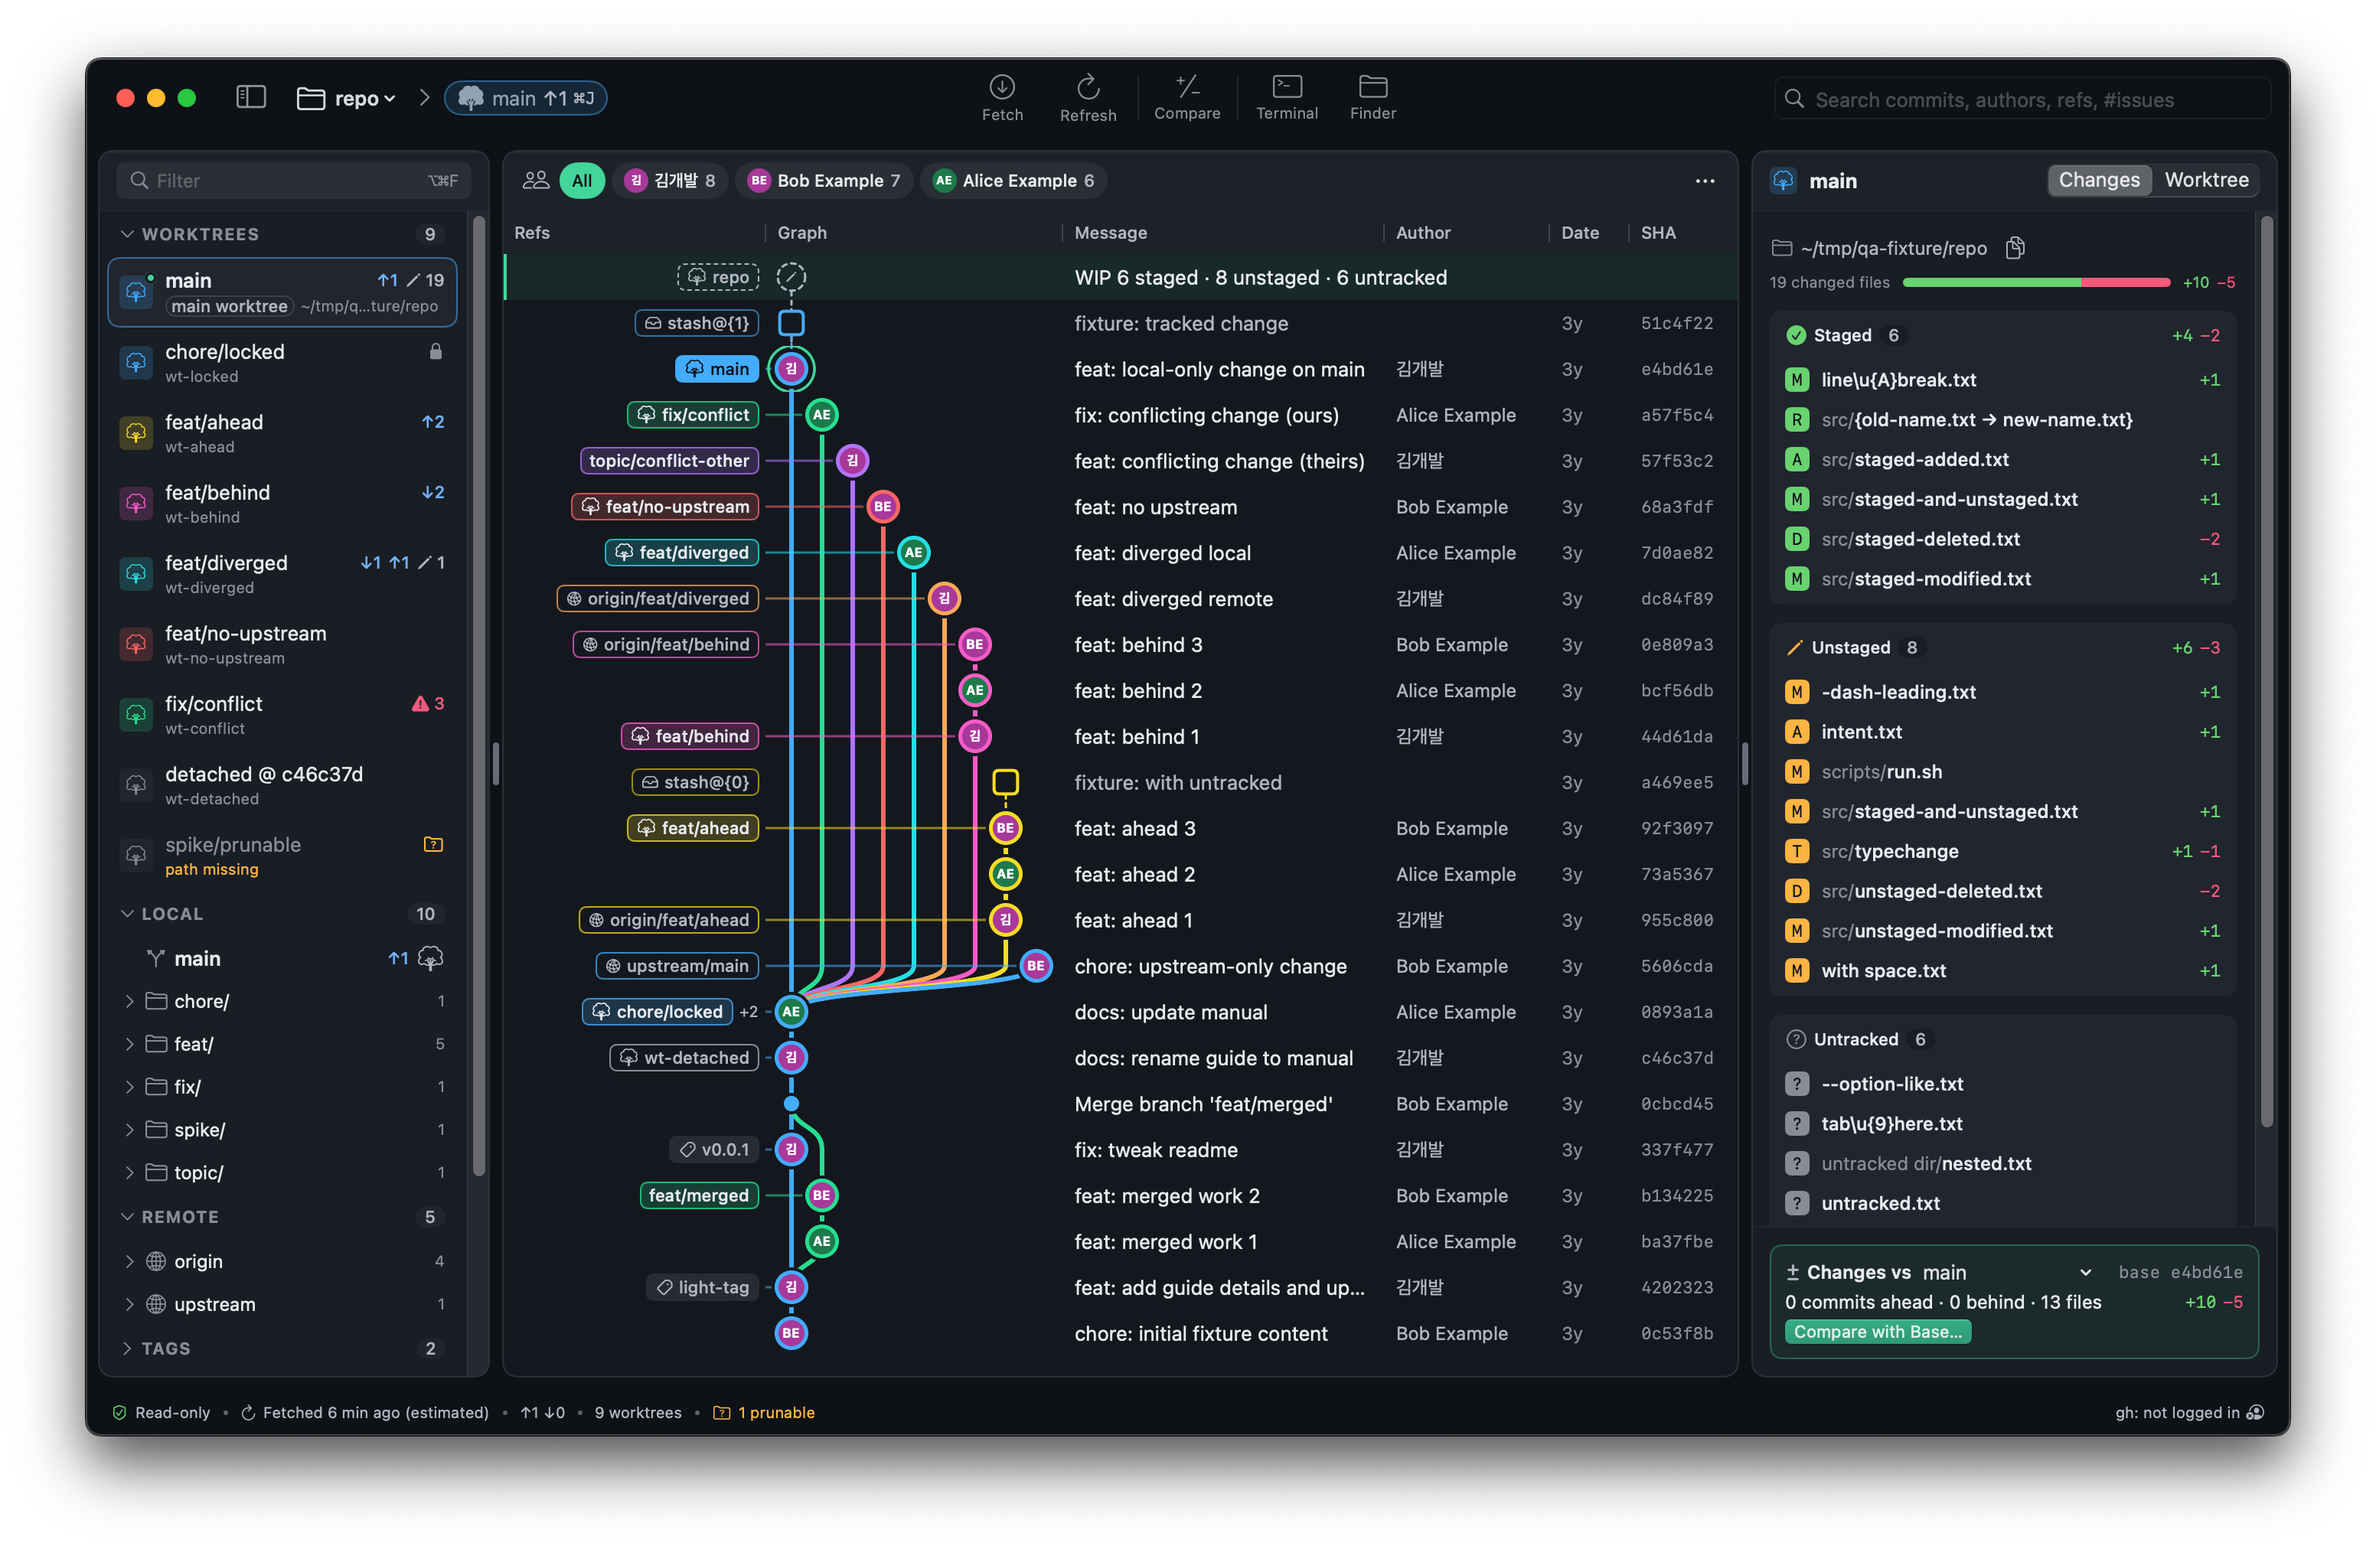
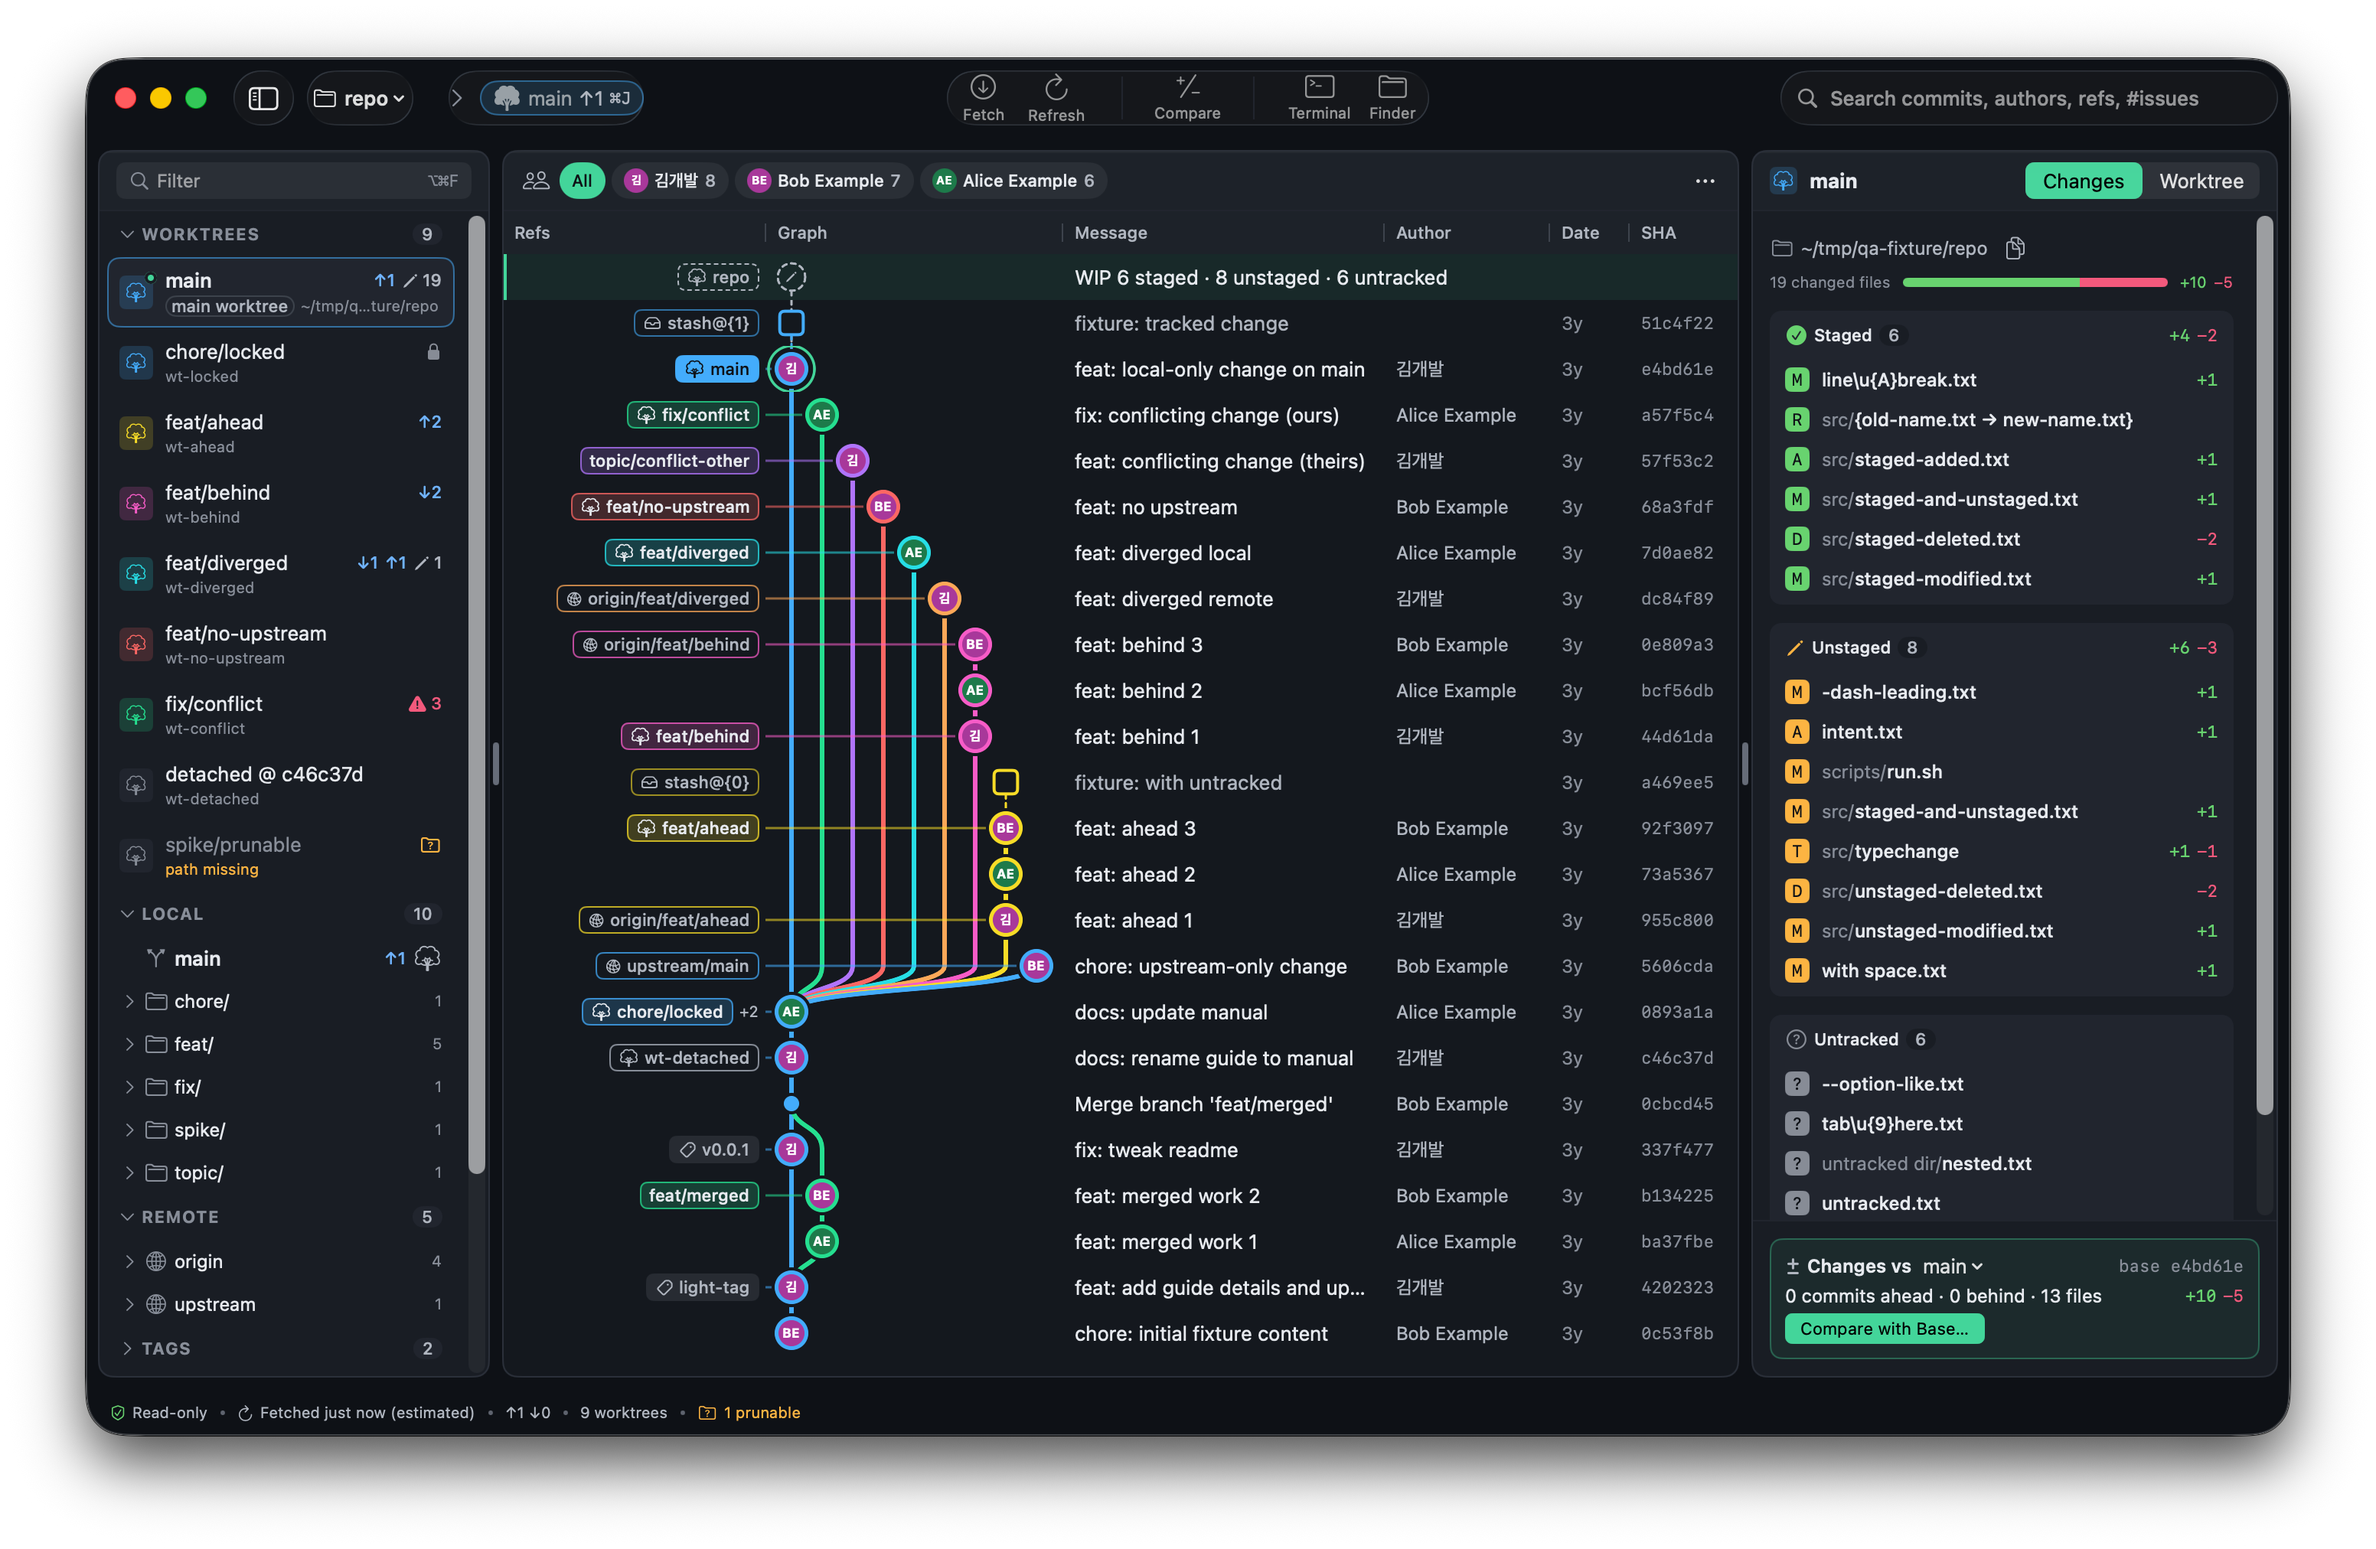
docs: use macOS 26 screenshots in the README
Most readers run the latest macOS, so replace the macOS 14 captures with
the same window and fixture repository captured on macOS 26, light and
dark, with the window shadow.

The images were recompressed losslessly with Xcode's pngcrush and their
metadata removed (EXIF, XMP, pHYs, iDOT); the pixels are unchanged and
the color profile is kept. 3104x2024, about 1.0 MB each. The captions
and docs/README.md now say macOS 26.

Refs: #101

diff --git a/README.md b/README.md
@@ -73,7 +73,7 @@ It is probably not for you yet if:
   <img alt="Overgrove main window: worktrees and branches in the sidebar, the commit graph in the middle, and the focused worktree's staged, unstaged, and untracked files on the right" src="design/screenshots/main-window-light.png">
 </picture>
 
-The main window on macOS 14, showing the test fixture repository from `scripts/make-fixture-repo.sh`. The image
+The main window on macOS 26, showing the test fixture repository from `scripts/make-fixture-repo.sh`. The image
 follows your light or dark appearance. You can also open the [light](design/screenshots/main-window-light.png) and
 [dark](design/screenshots/main-window-dark.png) versions directly.
 
